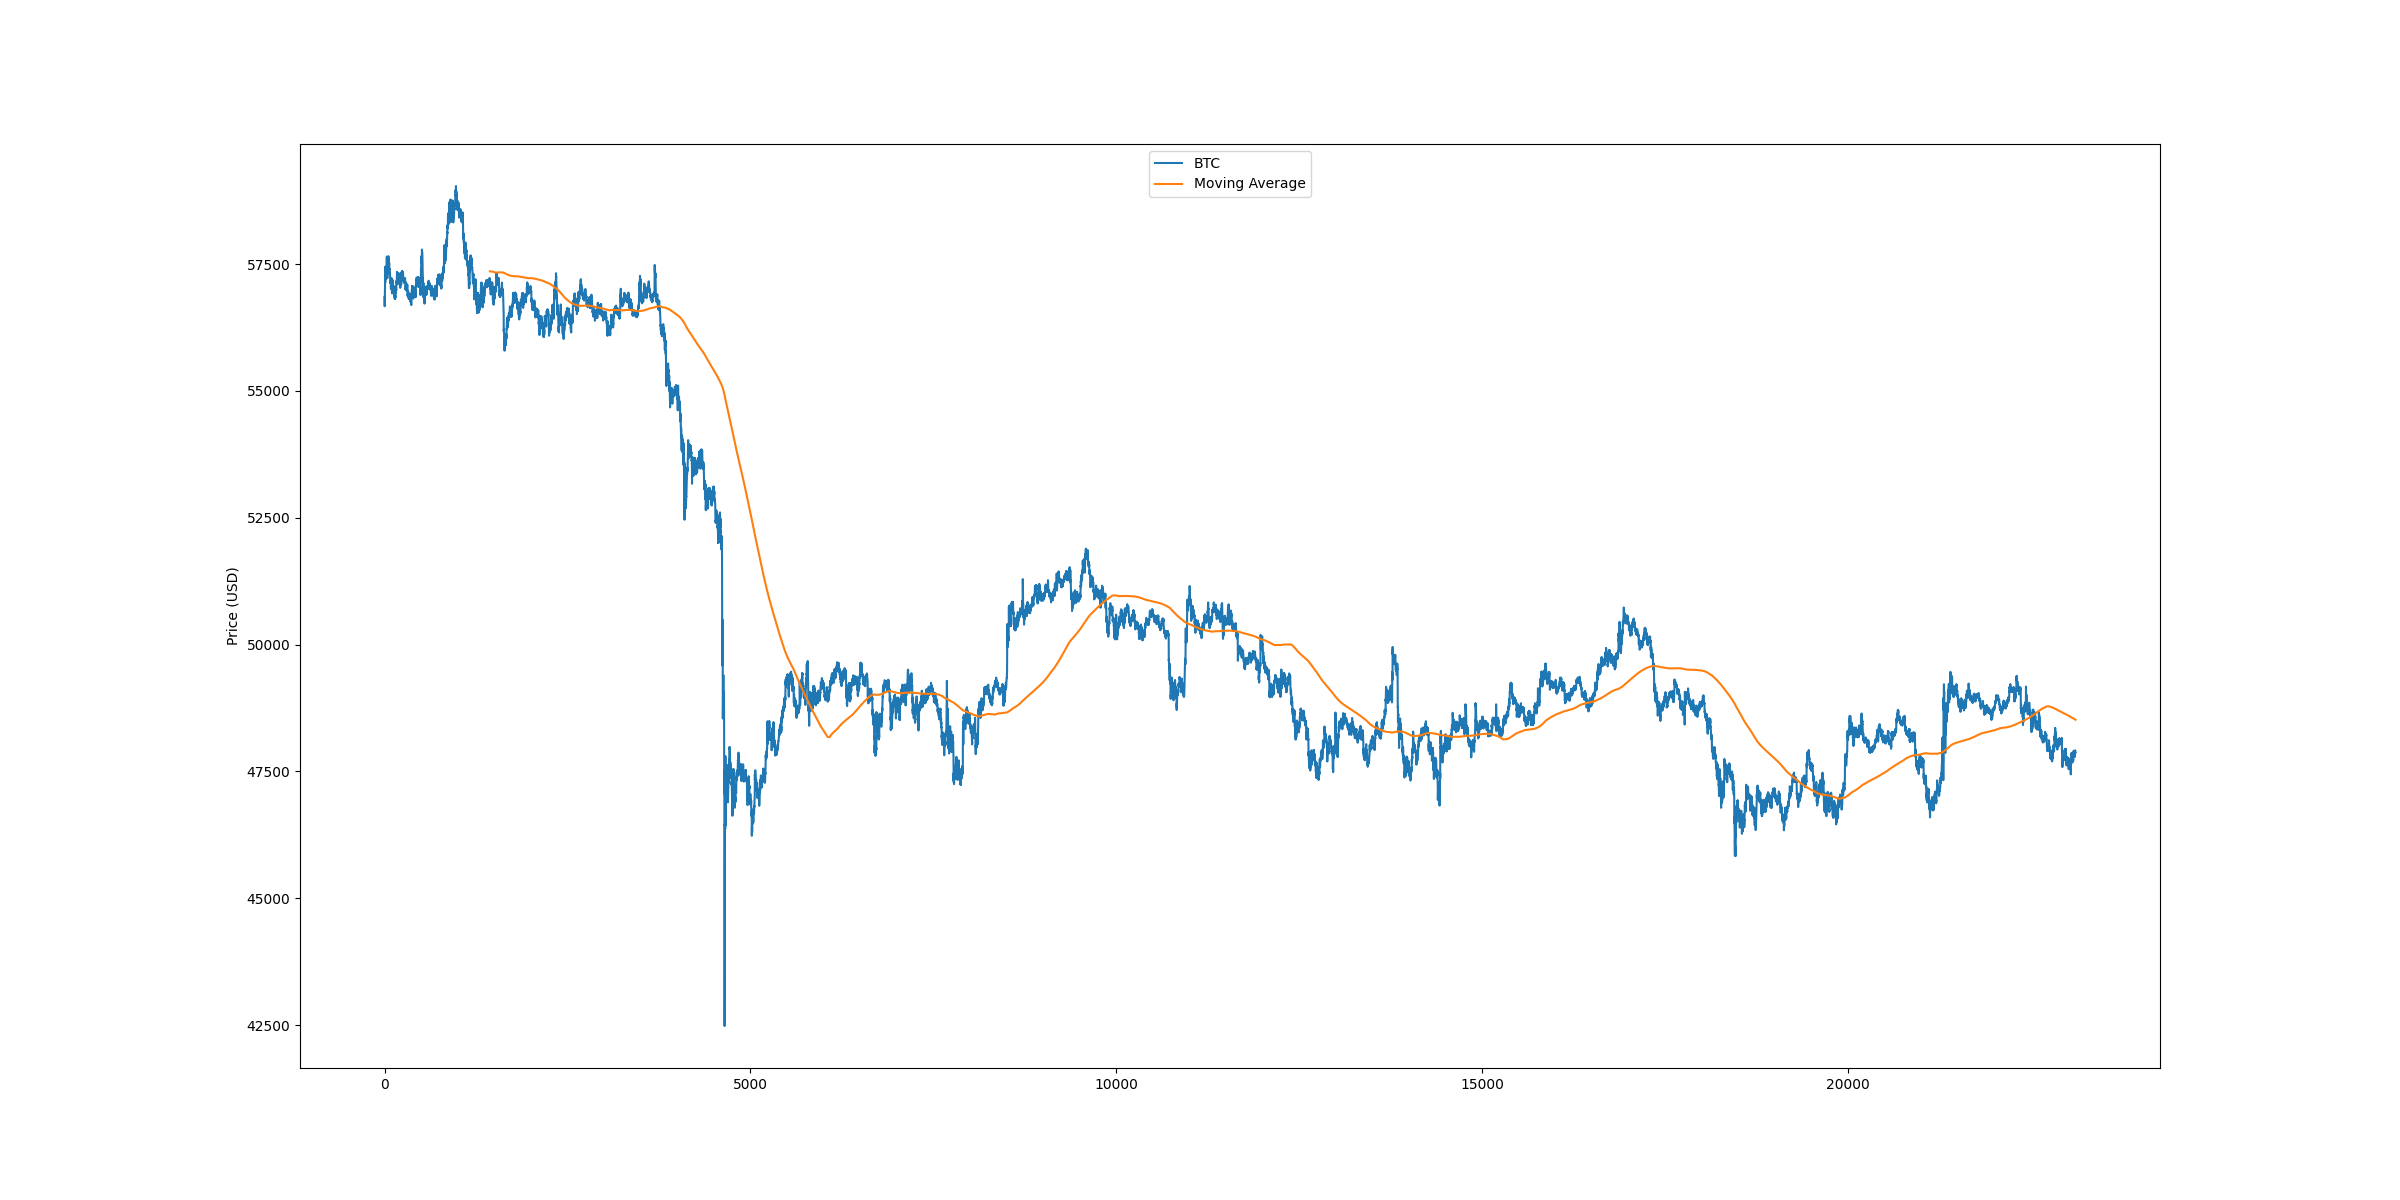
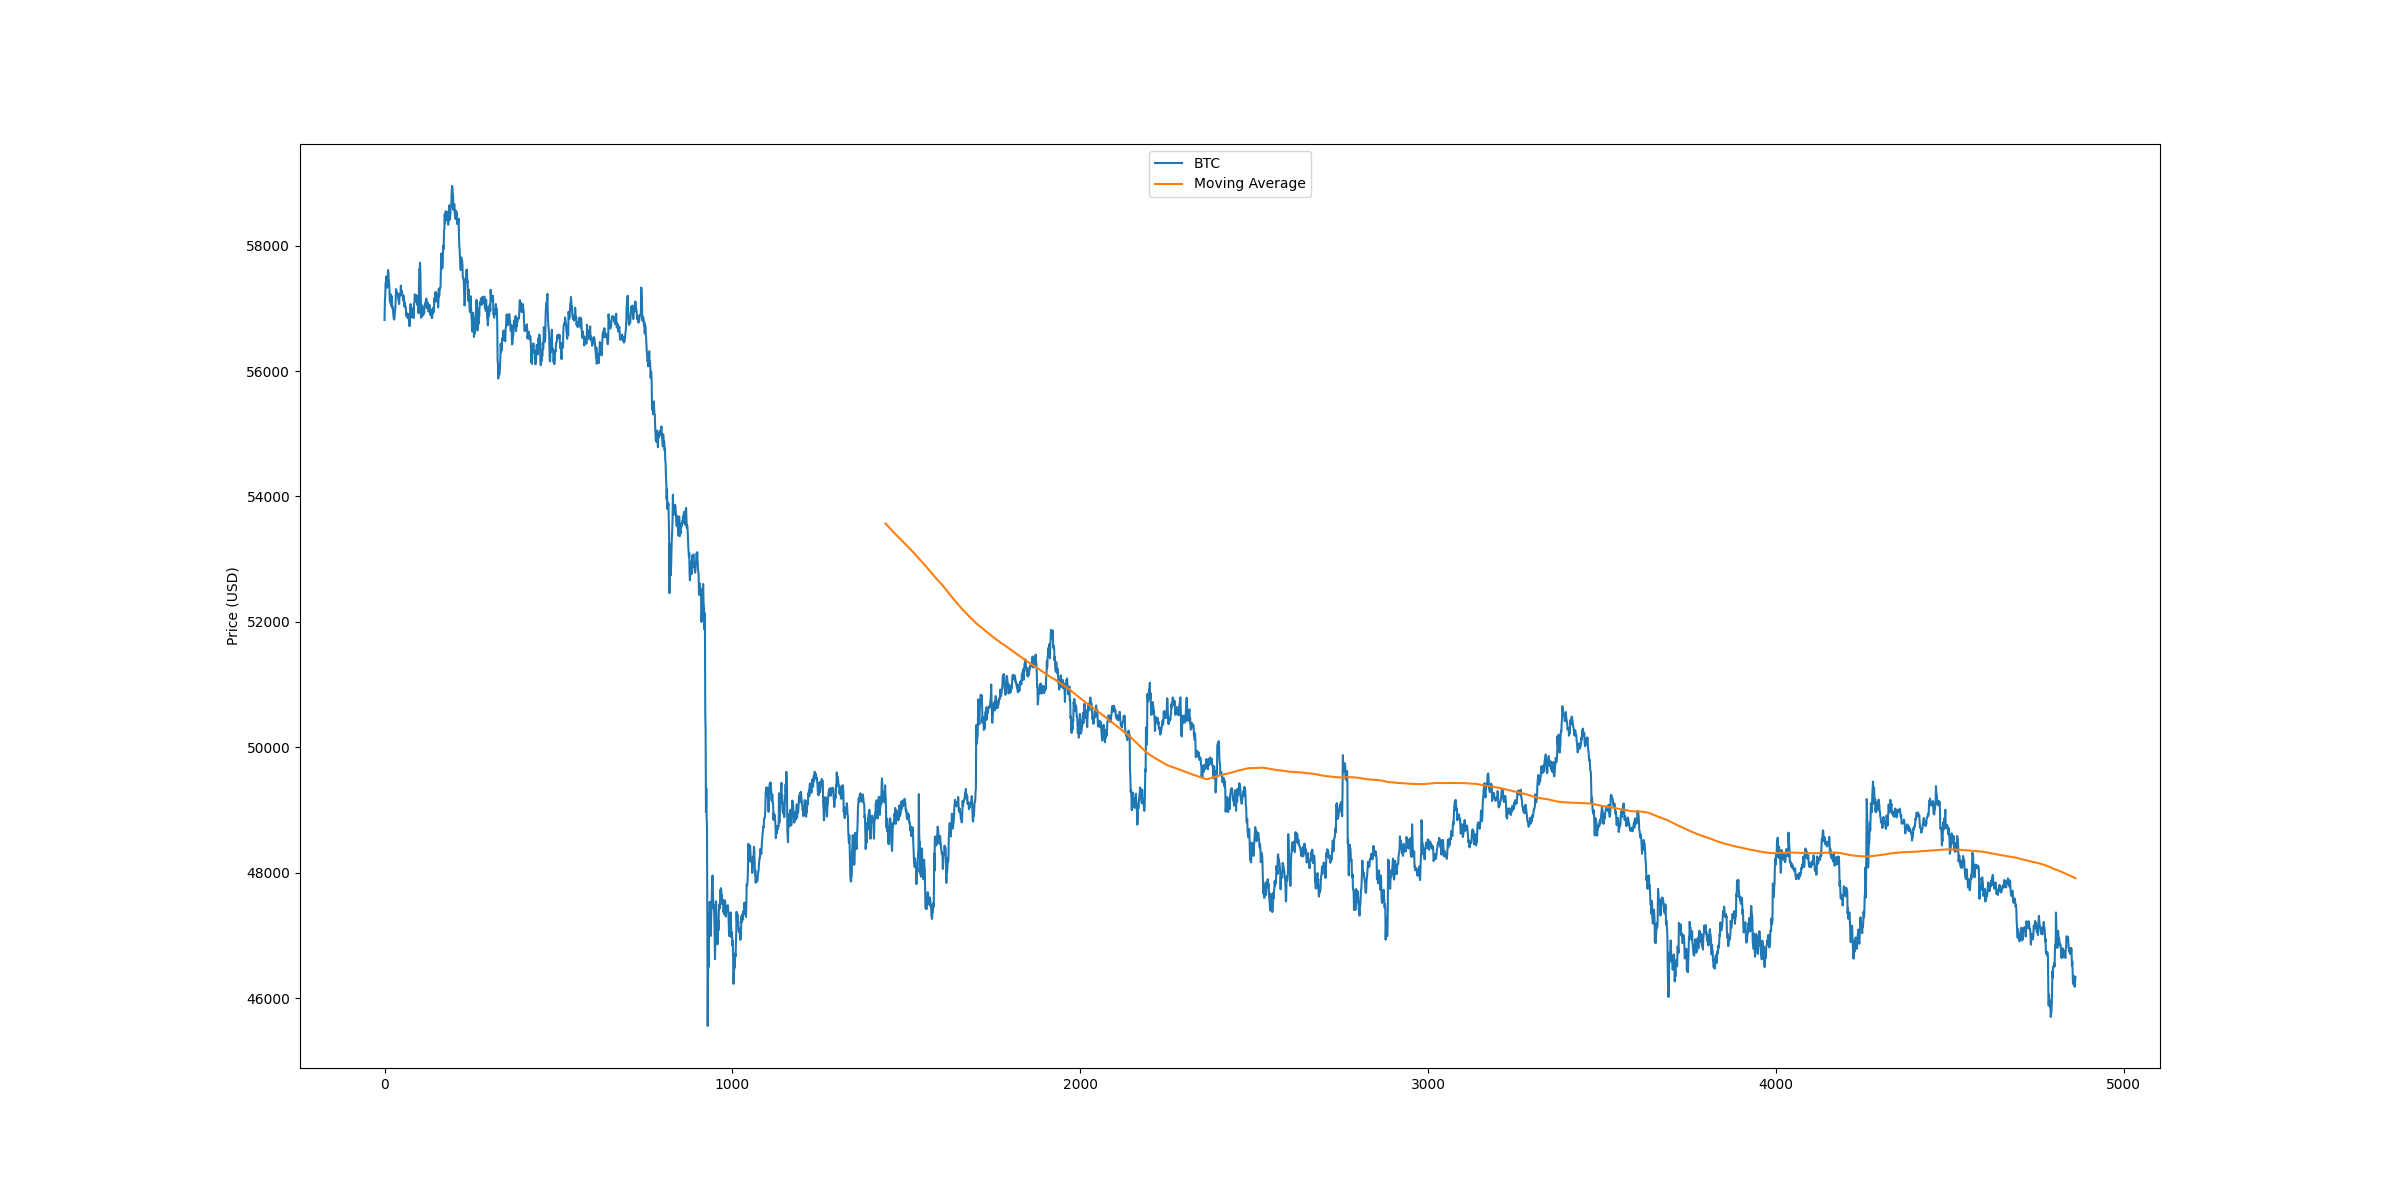
switch to 5 minute candles

diff --git a/src/backtest.py b/src/backtest.py
@@ -60,15 +60,17 @@ def run_backtest(strat, port, df):
         mva = strat.get_mva()
         mvas.append(mva)
 
-        action = strat.take_action(price=float(price), port=port)
-        port.handle_action(action)
+        actions = strat.take_action(price=float(price), port=port)
 
-        portfolio.append(port.get_value_in_fiat(coin_price=price))
-        portfolio_hold.append(start_coin * price)
+        for action in actions:
+            port.handle_action(action)
 
-        print(f'price: {price} action: {action}')
-        print(f'{port.get_fiat()}: {port.get_fiat_quantity()} {port.get_coin()}: {port.get_coin_quantity()} total value ({port.get_fiat()}): {port.get_value_in_fiat(coin_price=price)}')
-        print('--------------\n')
+            portfolio.append(port.get_value_in_fiat(coin_price=price))
+            portfolio_hold.append(start_coin * price)
+
+            # print(f'price: {price} action: {action}')
+            # print(f'{port.get_fiat()}: {port.get_fiat_quantity()} {port.get_coin()}: {port.get_coin_quantity()} total value ({port.get_fiat()}): {port.get_value_in_fiat(coin_price=price)}')
+            # print('--------------\n')
 
     percent_change = ((portfolio[-1] -
                       start_fiat) / start_fiat) * 100
@@ -95,12 +97,18 @@ if __name__ == '__main__':
 
     # Goal: user can enter any pair of currencies, for example BTC - USD, and the script will run all the specified backtests
 
-    strategies = [SimpleMVA(period=5, equity_per_trade=0.05),
-                  SimpleMVA(period=10, equity_per_trade=0.05),
-                  SimpleMVA(period=20, equity_per_trade=0.05),
-                  SimpleMVA(period=60, equity_per_trade=0.05),
-                  SimpleMVA(period=144, equity_per_trade=0.05),
-                  SimpleMVA(period=1440, equity_per_trade=0.05)]
+    strategies = [SimpleMVA(period=5, equity_per_trade=0.10,
+                            stop_loss=0.03, take_profit=0.06),
+                  SimpleMVA(period=10, equity_per_trade=0.10,
+                            stop_loss=0.03, take_profit=0.06),
+                  SimpleMVA(period=20, equity_per_trade=0.10,
+                            stop_loss=0.03, take_profit=0.06),
+                  SimpleMVA(period=60, equity_per_trade=0.10,
+                            stop_loss=0.03, take_profit=0.06),
+                  SimpleMVA(period=144, equity_per_trade=0.10,
+                            stop_loss=0.03, take_profit=0.06),
+                  SimpleMVA(period=1440, equity_per_trade=0.10,
+                            stop_loss=0.03, take_profit=0.06)]
 
     portfolios = [Portfolio(coin='BTC', coin_quantity=0,
                             fiat='USD', fiat_quantity=100),

diff --git a/src/simple_mva.py b/src/simple_mva.py
@@ -9,11 +9,13 @@ from action import Action
 
 class SimpleMVA(Strategy):
 
-    def __init__(self, period, equity_per_trade):
+    def __init__(self, period, equity_per_trade, stop_loss, take_profit):
         # number of time periods in window
         self.period = period
         # percentage of portfolio's value that is used per trade
         self.equity_per_trade = equity_per_trade
+        self.stop_loss = stop_loss
+        self.take_profit = take_profit
         self.sum = 0
         self.window = deque()
         self.prev_price = None
@@ -26,6 +28,9 @@ class SimpleMVA(Strategy):
         for order in self.buy_orders:
 
             if order.signal == 'BUY' and (price >= order.take_profit_strike or price <= order.stop_loss_strike):
+
+                print('STOP LOSS OR TAKE PROFIT')
+
                 actions.append(Action(signal='SELL',
                                       currency=order.currency,
                                       quantity=order.quantity,
@@ -40,7 +45,7 @@ class SimpleMVA(Strategy):
         self.sum += price
 
         if len(self.window) < self.period:
-            return Action(signal='HOLD', currency=port.get_coin(), quantity=None, price=price)
+            return [Action(signal='HOLD', currency=port.get_coin(), quantity=None, price=price)]
 
         if len(self.window) > self.period:
             self.sum -= self.window.popleft()
@@ -60,10 +65,10 @@ class SimpleMVA(Strategy):
                                 quantity=self.equity_per_trade *
                                 port.get_value_in_coin(coin_price=price),
                                 price=price,
-                                stop_loss=0.03,
-                                take_profit=0.06)
+                                stop_loss=self.stop_loss,
+                                take_profit=self.take_profit)
 
-            self.orders.append(buy_action)
+            self.buy_orders.append(buy_action)
             return stop_loss_take_profit_actions + [buy_action]
 
         # downward trend, price crosses below mva

diff --git a/src/binance_data.py b/src/binance_data.py
@@ -21,7 +21,7 @@ def binanceBarExtractor(symbol, start_date_str):
 
     filename = '{}_MinuteBars.csv'.format(symbol)
 
-    klines = bclient.get_historical_klines(symbol, Client.KLINE_INTERVAL_1MINUTE, start_date.strftime(
+    klines = bclient.get_historical_klines(symbol, Client.KLINE_INTERVAL_5MINUTE, start_date.strftime(
         "%d %b %Y %H:%M:%S"), today.strftime("%d %b %Y %H:%M:%S"), 1000)
     data = pd.DataFrame(klines, columns=['timestamp', 'open', 'high', 'low', 'close',
                                          'volume', 'close_time', 'quote_av', 'trades', 'tb_base_av', 'tb_quote_av', 'ignore'])
@@ -31,3 +31,7 @@ def binanceBarExtractor(symbol, start_date_str):
     data.to_csv(filename)
 
     print('finished!')
+
+
+if __name__ == '__main__':
+    binanceBarExtractor('BTCUSDT', '1 Dec 2021')
